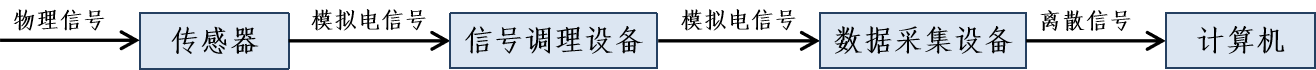
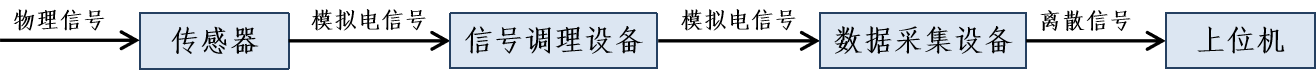
add: 硬件和软件系统设计

Changed region(s): [[0.9035, 0.3714, 0.9658, 0.7714]]

diff --git a/body/graduate/content.tex b/body/graduate/content.tex
@@ -1,4 +1,5 @@
 \chapter{绪论}
+
 \section{研究背景及意义}
 
 近年来，喷水推进泵在高速船舶推进系统中得到了广泛应用，
@@ -51,49 +52,115 @@
 \subsection{研究目标}
 
 \chapter{振动噪声测试系统设计}
+本文基于LabVIEW平台开发了推进泵振动噪声测试系统，其中涵盖了信号采集的硬件系统设计，
+以及实现信号分析和存储的软件系统设计，该系统支持同步对多通道传感器信号实时采集，各通道信号同时处理、显示及存储，
+同时也能够实现振动加速度传感器的性能检验和指标评估，适用于各类泵和风机振动及噪声测试场景。
 
-本文基于labVIEW平台开发了推进泵振动噪声测试系统，其中涵盖了信号采集的硬件系统设计，
-以及实现信号分析和存储的软件系统设计，该系统适用于实现了振动与噪声信号的动态测量、实时采集、实时分析
-和数据保存，同时也能够实现振动加速度传感器的性能检验和指标评估，适用于各类泵和风机振动及噪声测试场景。
-
-基于此平台可开展对振动及噪声信号频率和特征、信号特征频段等研究，
+基于此平台可开展对振动及噪声信号频率和特性、特征频段等研究，
 为进行推进泵振动噪声测量、判断推进泵声学性能及进行噪声及流致振动激励特性分析奠定了研究基础。
 
 \section{系统总体设计概述}
 
 \subsection{测试基本参数和数据处理}
 本文设计的测试信号对象包括声压和振动加速度信号，用来表征测试对象的声学和振动性能，可分别由麦克风或者水听器和
-振动加速度传感器测量。声压级和振动加速度级是声学测量中常用的参数，一个声学量的级是该量与同类量的基准值之比的对数。
-其中，声压级定义为将待测声压p$_e$与参考声压p$_{ref}$的比值取常用对数，再乘以20，以分贝计，即
+振动加速度传感器测量。信号处理主要涉及频谱分析和1/3倍频程分析。
+
+在振动与噪声信号的分析中，声压级和振动加速度级是常用的参数，一个声学量的级是该量与同类量的基准值之比的对数。
+其中，声压级定义为将待测声压$p_e$与参考声压$p_{ref}$的比值取常用对数，再乘以20，以分贝计，即
 \begin{equation}
-    \label{equ:sample}
+    \label{equ:p}
     L_{p} = 20\log_{10}{\left(p_{re}/p_{ref}\right )}
 \end{equation}
-式中，在水中基准声压为$p_{ref}= 1\times 10^{-6} \mathrm{P} a$,在空气中基准声压为$p_{ref}= 2\times 10^{-5} \mathrm{P} a$。
-同理，振动加速度级也定义为加速度有效值a$_e$与基准加速度a$_{ref}$之比的以10为底的对数，再乘以20，以分贝计，即
+式中，在水中基准声压为$p_{ref}= 1\times 10^{-6} \mathrm{P} a$，在空气中基准声压为$p_{ref}= 2\times 10^{-5} \mathrm{P} a$。
+同理，振动加速度级也定义为加速度有效值$a_e$与基准加速度$a_{ref}$之比的以10为底的对数，再乘以20，以分贝计，即
 \begin{equation}
-    \label{equ:sample}
+    \label{equ:a}
     L_{a} = 20\log_{10}{\left(a_{re}/a_{ref}\right )}
 \end{equation}
 式中，基准加速度值为$a_{ref}= 1\times 10^{-6} \mathrm{m/s^2} $。
 
-信号的频谱是指信号的频率成分与能量分布的关系，可以体现信号的频率特征。同时在振动与噪声信号的分析中，
-通常也会采用1/3倍频程频谱分析，是比较符合人耳分辨频率能力的频带划分方法，更加详细的反映噪声源的频谱特性。
-通过将整个频谱划分为若干频带，每个频带的上限频率f$_u$与下限频率f$_l$之比是2的立方根，即满足以下公式：
+信号的频谱是指信号的频率成分与能量分布的关系，可以体现信号的频率特征。在振动与噪声信号的分析中，
+通常也会采用1/3倍频程频谱分析，是比较符合人耳分辨频率能力的频带划分方法，能更加详细的反映噪声源的频谱特性。
+通过将整个频谱划分为若干频带，每个频带的上限频率$f_u$与下限频率$f_l$之比是2的立方根，即满足以下公式：
 \begin{equation}
-    \label{equ:sample}
+    \label{equ:fu}
     f_{u}/f_{l}=2^{1/3}=1.2599
 \end{equation}
 中心频率f$_{m}$为上下限频率的几何平均值，即
 \begin{equation}
-    \label{equ:sample}
+    \label{equ:fm}
     f_{m}=\sqrt{f_{u}\cdot f_{l} } 
 \end{equation}
-
-便于较全面的了解声源产生机理和提出最佳的降噪对策。
+本文进行1/3倍频程分析所采用的方法是通过对采样信号进行快速傅立叶变换，计算出功率谱或幅值谱，
+然后用功率谱或幅值谱的数据，计算每一个中心频率带宽的信号有效值，代入\autoref{equ:p}或\autoref{equ:a}
+中可得到该频段内的声压级。
 \subsection{基本方案}
+本文所采用的技术框架如\autoref{fig:framework}所示，主要包括传感器，信号调理模块，数据采集卡和上位机分析软件。
+\begin{figure}[htbp]
+    \centering
+    \includegraphics[scale=0.55]{2硬件设备流程图.png}
+    \caption{\label{fig:framework}技术框架图}
+\end{figure}
+
+目前国内在数据采集卡和上位机分析软件的结合方面主要采用的方式有两种，
+一种是购买国内公司的数据采集卡，然后自行设计上位机分析软件，这种方案价格低廉，
+但是自行开发上位机软件周期长，且功能有限还不易扩展。
+另一种是购买美国NI公司的LabVIEW软件和数据采集卡套件，NI公司的虚拟仪器系统灵活性高，
+开发成本更低，同时数据采集卡套件系统具有更小尺寸，但是价格非常高昂。
+针对本文所涉及的泵或风机等测试场景，选用开发灵活性更高且尺寸更小的硬件系统更为合适，
+因此本文采用的是美国NI公司的LabVIEW软件和数据采集卡套件。
+
+LabVIEW通过调用硬件设备的底层驱动程序，结合软件功能模块，从而搭建出控制数据采集传输，处理和存储的系统。
+该系统的的核心部分是功能模块的设计，本系统软件设计结构可分为系统设置模块、信号采集模块、数据显示模块、信号分析模块、数据管理模块等，
+系统方案图如\autoref{fig:system}所示。此外还可以根据实际情况，灵活地添加新的功能模块。
+在2.3节软件系统设计中将对软件模块的设计过程作详细介绍。
+\begin{figure}[htbp]
+    \centering
+    \includegraphics[scale=0.6]{2系统方案.png}
+    \caption{\label{fig:system}系统方案图}
+\end{figure}
+
 \section{硬件系统设计}
+\subsection{传感器选型}
+
+\subsection{数据采集卡}
+针对本文所涉及的泵或风机等测试场景，对硬件的要求主要包括：（1）支持多通道同步采集；（2）支持IEPE信号调理；（3）轻巧灵活，便携式。
+因此选用了，NI 9234 是一种 4 通道动态信号采集模块，可对 IEPE 传感器进行高精度测量。NI 9234
+的动态范围为 102 dB，并带有 2 mA 恒定电流的集成电路压电式(IEPE)信号调理，用于
+加速度计及麦克风。4 路输入通道可同时以最高为 51.2 kS/s 的速度进行采样。此外，模
+块还包含内置抗混叠滤波器，可自动调节至您的采样率。NI 9234 与单模块 USB 外盒、
+NI CompactDAQ、NI CompactRIO 硬件兼容，是各种移动和便携式应用的理想解决方
+案，
+如\autoref{fig:acquire}所示。
+\begin{figure}[htbp]
+    \centering
+    \includegraphics[scale=0.3]{2数据采集卡.png}
+    \caption{\label{fig:acquire}数据采集卡}
+\end{figure}
+
+
 \section{软件系统设计}
+
+程序流程如\autoref{fig:process}所示。
+
+\begin{figure}[htbp]
+    \centering
+    \includegraphics[scale=0.55]{2软件流程图.png}
+    \caption{\label{fig:process}程序流程图}
+\end{figure}
+\subsection{系统设置模块}
+\subsection{数据采集模块}
+\subsection{信号分析模块}
+\subsection{数据管理模块}
+设计的振动虚拟测试系统不仅要具有在线分析数据功能，而且还具有离线分
+析功能。如果系统是处于离线的状况，则系统就会将采集到的振动信号存储起来，
+最后在通过数据回读的方式对这些数据进行分析处理。数据管理模块包括数据保
+存与数据读取两个功能子模块。进行数据存储有两个方面的要求，第一，要保存
+完整的数据信息，第二，要保留数据的一些重要参数信息，如放大增益、采样频
+率等。本设计的数据存储和数据读取使用TDMS  文件，它是TDM文件的改进，
+具有比TDM文件的读写速度更快，使用更简单方便，对于庞大的测试数据，利
+用TDMS文件来存储是非常的方便快速的。
+
 \section{系统校准}
 \section{本章小结}
 
